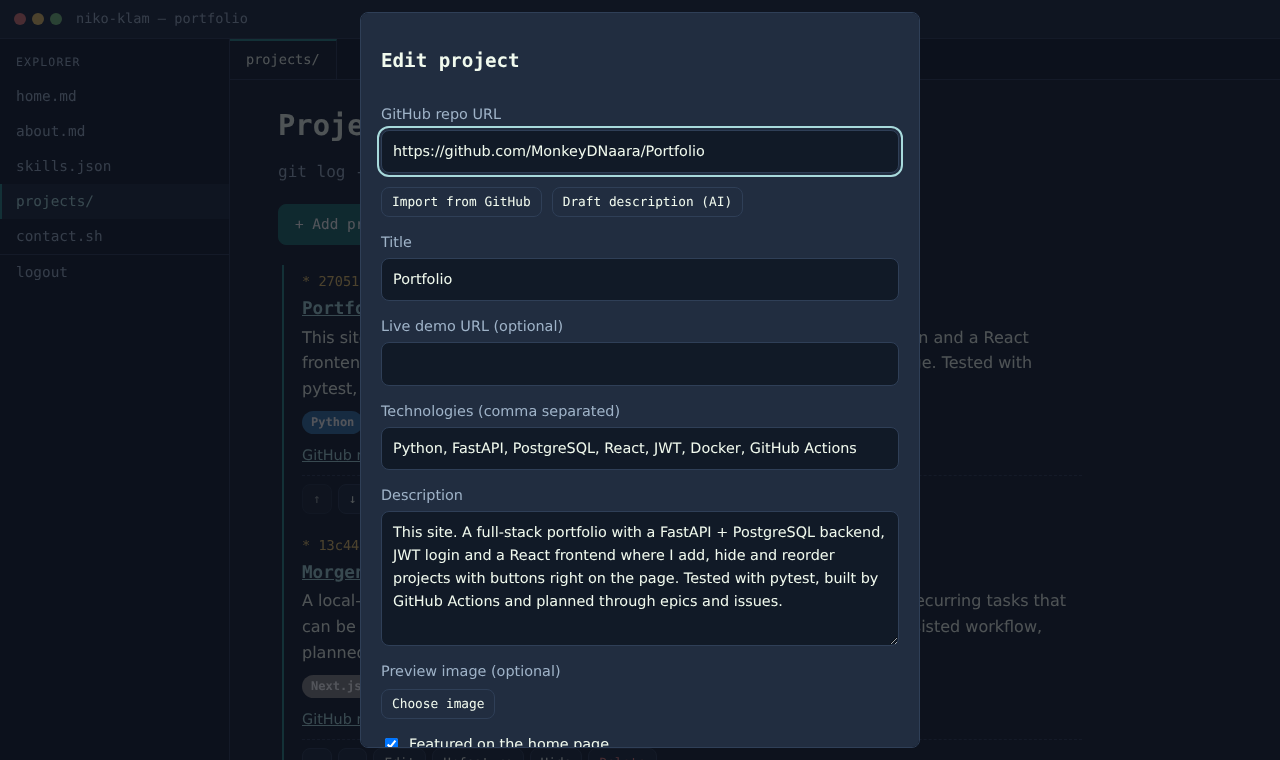
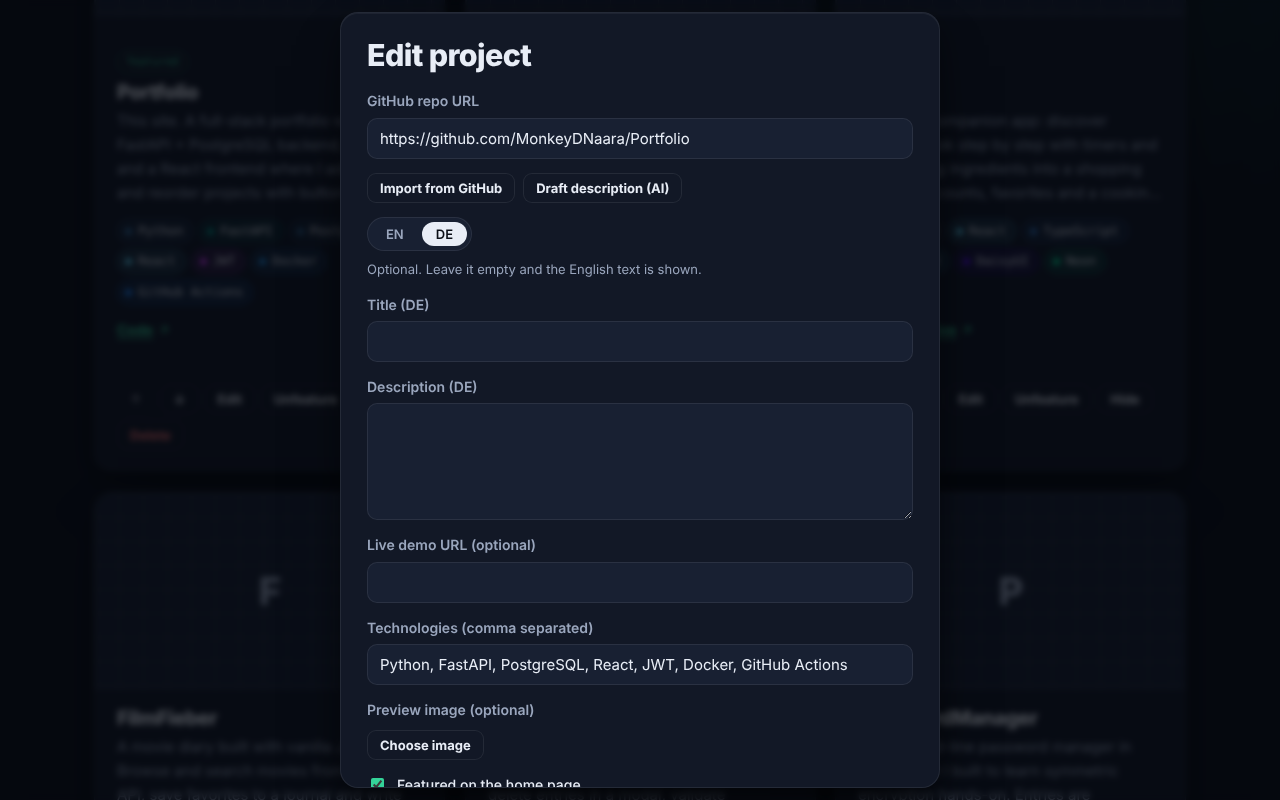
docs: README with new screenshots and a short design section
Screenshots in dark and light mode, German about page, owner view, edit dialog and phone.

Refs #64

Claude-Session: https://claude.ai/code/session_01T93aRrRaM9DFVyzA7ft58b

diff --git a/README.md b/README.md
@@ -4,13 +4,19 @@
 
 My portfolio site, built as a small but complete full-stack project. My projects live in a PostgreSQL database (Neon), and when I'm logged in I can add, edit, hide, feature and reorder them with buttons right on the projects page, no code changes needed. I came from industrial automation, so I wanted a project that shows the whole path: database, API, auth, frontend, tests, CI and deployment.
 
-![Home page](docs/screenshots/home.png)
+![Home page in dark mode](docs/screenshots/home.png)
+
+| Light mode | About page in German |
+| --- | --- |
+| ![Home page in light mode](docs/screenshots/home-light.png) | ![About page in German](docs/screenshots/about.png) |
 
 | Projects as visitors see them | Same page when I'm logged in |
 | --- | --- |
 | ![Projects](docs/screenshots/projects.png) | ![Owner view](docs/screenshots/owner.png) |
 
-![Edit form](docs/screenshots/form.png)
+| Edit dialog with the German tab | Phone |
+| --- | --- |
+| ![Edit form](docs/screenshots/form.png) | <img src="docs/screenshots/mobile.png" alt="Home page on a phone" width="260"> |
 
 ## What it does
 
@@ -20,7 +26,15 @@ My portfolio site, built as a small but complete full-stack project. My projects
 - **Import from GitHub**: paste a repo URL and the title, description, live link and technologies are filled in from the GitHub API
 - Optional AI helper: drafts a project description from a repo's README using the Claude API, I always edit it before saving
 - Preview image per project. The browser scales it down, the API checks the file type by its bytes and stores it in Postgres.
+- **German / English** toggle for all texts. Projects can have an optional German title and description, otherwise the English one is shown.
+- **Light and dark mode**, follows the system setting and remembers my choice
 - Responsive layout, works on a phone too
+
+## Design
+
+My first version looked like a code editor, with a file tree, a fake terminal and fake commit hashes. Lots of developer portfolios look like that, and it didn't say anything about me. The new one is calmer: dark first, one emerald accent, and the only other colors are the brand dots on the tech badges, so you can see at a glance what each project was built with.
+
+On the home page the three layers of this project (PostgreSQL, FastAPI, React) are drawn as a small 3D stack that spreads apart when you hover over it. The about page tells my path from BMW apprentice to developer as a timeline. Cards tilt a little on hover; that's turned off on touch screens and when "reduce motion" is set. No UI library: plain CSS with custom properties, about 15 kB.
 
 ## Tech stack
 
@@ -28,8 +42,8 @@ My portfolio site, built as a small but complete full-stack project. My projects
 | --- | --- |
 | Backend | Python, FastAPI, SQLAlchemy 2, Alembic, PyJWT |
 | Database | PostgreSQL (Neon), SQLite for quick local dev and tests |
-| Frontend | React, Vite, React Router, plain CSS |
-| Quality | pytest (47 tests, run on SQLite and on Postgres), ruff, GitHub Actions |
+| Frontend | React, Vite, React Router, plain CSS, small self-made i18n (no library) |
+| Quality | pytest (51 tests, run on SQLite and on Postgres), ruff, GitHub Actions |
 | Deployment | Docker / docker-compose, Render (see `render.yaml`) |
 
 ## How it fits together
